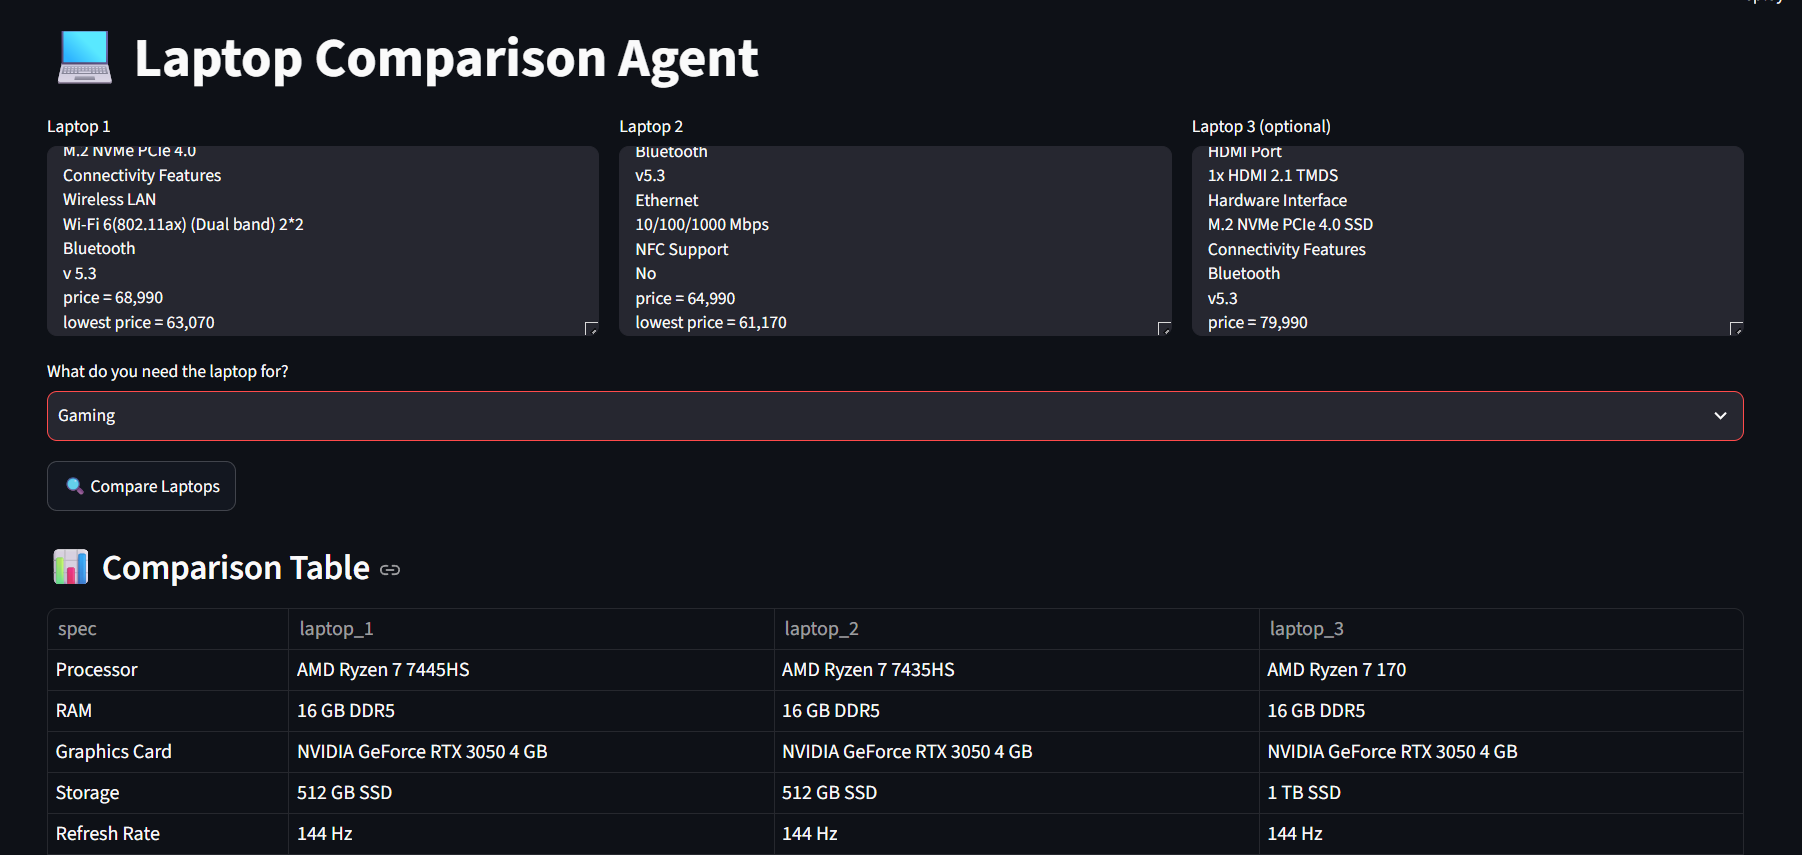
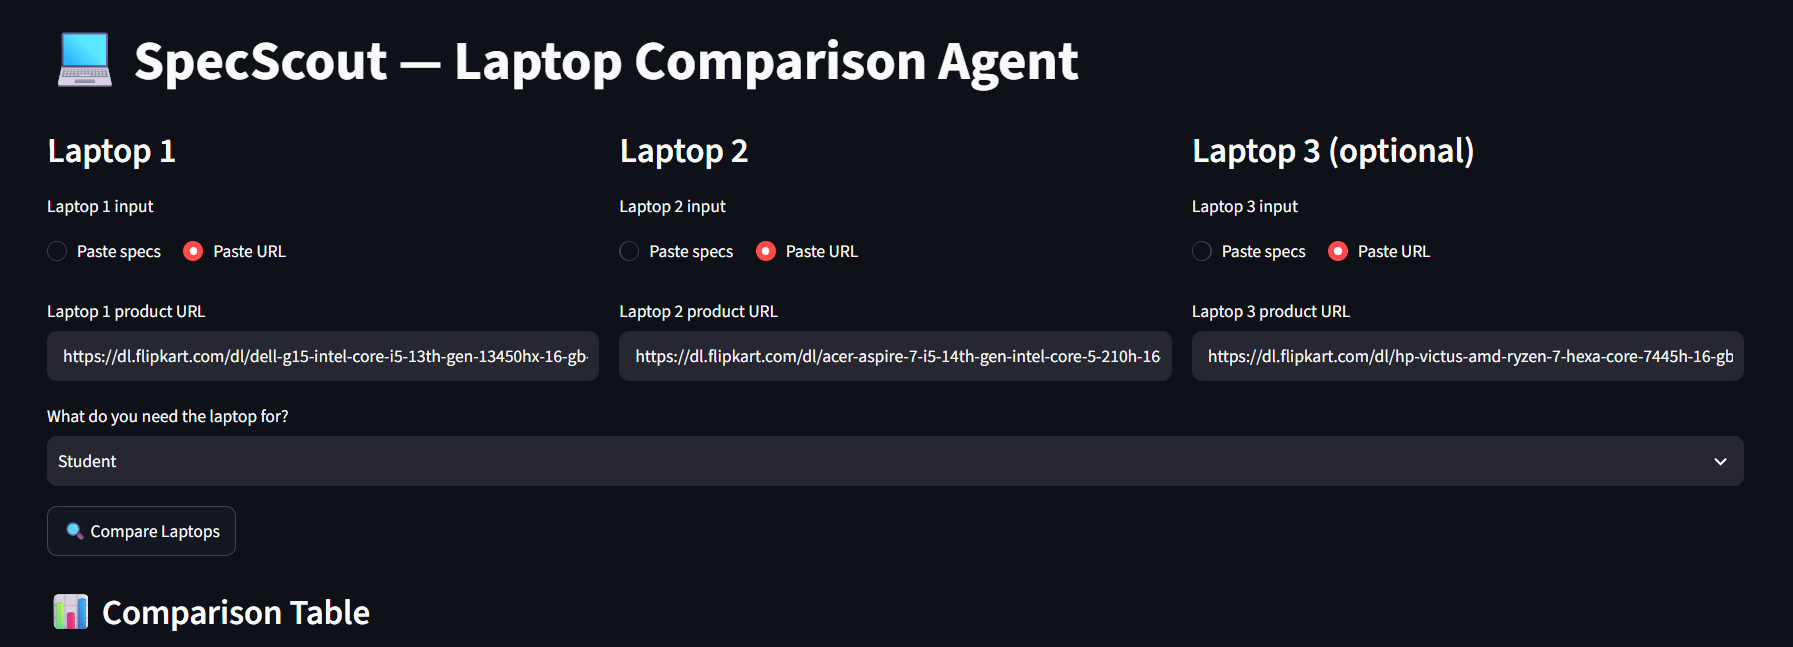
Phase 2: URL fetching + use-case-aware comparison

diff --git a/app.py b/app.py
@@ -1,13 +1,15 @@
 import streamlit as st
 from groq import Groq
+import re
 import os
 import json
+import requests
+from bs4 import BeautifulSoup
 from dotenv import load_dotenv
 
 load_dotenv()
-st.set_page_config(page_title="Laptop Compare AI", page_icon="💻", layout="wide")
-st.title("💻 Laptop Comparison Agent")
-
+st.set_page_config(page_title="SpecScout", page_icon="💻", layout="wide")
+st.title("💻 SpecScout — Laptop Comparison Agent")
 
 api_key_input = os.getenv("GROQ_API_KEY")
 
@@ -15,67 +17,151 @@ with st.sidebar:
     if api_key_input:
         st.success("API key loaded ✅")
     else:
-        st.error("No API key found. Add GEMINI_API_KEY to your .env file.")
+        st.error("No API key found. Add GROQ_API_KEY to your .env file.")
+
+
+def fetch_specs_from_url(url):
+    try:
+        headers = {"User-Agent": "Mozilla/5.0"}
+        resp = requests.get(url, headers=headers, timeout=10)
+        resp.raise_for_status()
+        soup = BeautifulSoup(resp.text, "html.parser")
+
+        title_tag = soup.find("title")
+        raw_title = title_tag.get_text(strip=True) if title_tag else ""
+
+        if " - (" in raw_title:
+            name = raw_title.split(" - (")[0].strip()
+        elif "Price in India" in raw_title:
+            name = raw_title.split("Price in India")[0].strip()
+        else:
+            name = raw_title.split("|")[0].strip()
+
+        name = name if name else "Unknown Laptop"
+        name = name[:60]  # safety cap in case a title has no clean break point
+
+        tables = soup.find_all("table")
+        specs = "\n".join(t.get_text(separator="\n", strip=True) for t in tables) if tables \
+                else soup.get_text(separator="\n", strip=True)[:3000]
+
+        return name, specs
+    except Exception as e:
+        st.warning(f"Couldn't fetch specs from that URL ({e}). Try pasting specs manually instead.")
+        return "Unknown Laptop", ""
+
+
+def laptop_input(label):
+    mode = st.radio(f"{label} input", ["Paste specs", "Paste URL"], horizontal=True, key=f"{label}_mode")
+    if mode == "Paste specs":
+        specs = st.text_area(f"{label} specs", height=180, key=f"{label}_text")
+        return label, specs
+    else:
+        url = st.text_input(f"{label} product URL", key=f"{label}_url")
+        if url:
+            return fetch_specs_from_url(url)
+        return label, ""
+
 
 col1, col2, col3 = st.columns(3)
 with col1:
-    laptop1 = st.text_area("Laptop 1", height=180)
+    st.subheader("Laptop 1")
+    name1, laptop1 = laptop_input("Laptop 1")
 with col2:
-    laptop2 = st.text_area("Laptop 2", height=180)
+    st.subheader("Laptop 2")
+    name2, laptop2 = laptop_input("Laptop 2")
 with col3:
-    laptop3 = st.text_area("Laptop 3 (optional)", height=180)
+    st.subheader("Laptop 3 (optional)")
+    name3, laptop3 = laptop_input("Laptop 3")
 
 use_case = st.selectbox(
     "What do you need the laptop for?",
     ["General use", "Coding", "Gaming", "Video editing", "Student", "Business"]
 )
 
-def build_prompt(laptops, use_case):
+
+USE_CASE_CRITERIA = {
+    "Video editing": "Prioritize CPU multi-core performance, RAM (32GB+ preferred over 16GB), GPU VRAM for render acceleration, and color-accurate displays. Refresh rate above 60Hz is NOT a meaningful factor for video editing.",
+    "Gaming": "Prioritize GPU model/VRAM, high refresh rate (144Hz+), and CPU single-core speed.",
+    "Coding": "Prioritize RAM (16GB+), fast SSD, and battery life. GPU and refresh rate are low priority.",
+    "Student": "Prioritize battery life, weight/portability, and price. High-end GPU is unnecessary.",
+    "Business": "Prioritize battery life, portability, keyboard quality, and security features. GPU is unnecessary.",
+    "General use": "Prioritize balanced performance and price. No single spec should dominate the decision."
+}
+
+
+def build_prompt(laptops, names, use_case):
     laptops_text = "\n\n".join(
-        f"Laptop {i+1}:\n{spec}" for i, spec in enumerate(laptops) if spec.strip()
+        f"{names[i]}:\n{spec}" for i, spec in enumerate(laptops) if spec.strip()
     )
+    active_names = [names[i] for i, spec in enumerate(laptops) if spec.strip()]
+    criteria = USE_CASE_CRITERIA.get(use_case, "")
+    example_row = ", ".join(f'"{n}": "..."' for n in active_names)
+
     return f"""You are a laptop buying expert. Compare these laptops for: {use_case}.
+
+Evaluation criteria for this use case: {criteria}
 
 {laptops_text}
 
-Return ONLY valid JSON, no markdown, in this structure:
+IMPORTANT — Field extraction rules:
+- For the "Graphics" row, always combine the GPU model AND its VRAM/memory capacity into one value, e.g. "NVIDIA GeForce RTX 3050 (4 GB)". These often appear as two separate raw fields like "Graphic Processor" and "Dedicated Graphic Memory Capacity" — merge them. If VRAM truly isn't present anywhere in the specs, write just the GPU name with no memory value, but check carefully before omitting it.
+- For "Battery Life", only write a value if the raw specs explicitly mention battery hours or Wh capacity. Otherwise write "Not listed by seller" instead of "Not specified".
+
+Return ONLY valid JSON, no markdown, in this structure. Use these EXACT laptop names as keys: {active_names}
+
 {{
   "comparison_table": [
-    {{"spec": "Processor", "laptop_1": "...", "laptop_2": "..."}},
-    {{"spec": "RAM", "laptop_1": "...", "laptop_2": "..."}}
+    {{"spec": "Processor", {example_row}}},
+    {{"spec": "RAM", {example_row}}},
+    {{"spec": "Storage", {example_row}}},
+    {{"spec": "Graphics", {example_row}}},
+    {{"spec": "Display", {example_row}}},
+    {{"spec": "Price", {example_row}}}
   ],
   "verdict": {{
     "best_overall": "...",
     "best_value": "...",
     "best_for_use_case": "..."
   }},
-  "summary": "2-3 sentence recommendation"
-}}"""
+  "summary": "2-3 sentences that must directly justify and agree with best_overall — do not recommend a different laptop than best_overall names. Base your reasoning on the evaluation criteria given above, not on which spec has the biggest number."
+}}
 
-def get_comparison(api_key, laptops, use_case):
+Use the exact laptop names given above as JSON keys in comparison_table, not generic labels like laptop_1.
+Before answering, double check that your summary names the SAME laptop as best_overall."""
+
+
+def extract_json(text):
+    text = text.strip().replace("```json", "").replace("```", "").strip()
+    match = re.search(r"\{.*\}", text, re.DOTALL)
+    return json.loads(match.group()) if match else json.loads(text)
+
+
+def get_comparison(api_key, laptops, names, use_case):
     client = Groq(api_key=api_key)
-    prompt = build_prompt(laptops, use_case)
+    prompt = build_prompt(laptops, names, use_case)
     response = client.chat.completions.create(
         model="llama-3.3-70b-versatile",
         messages=[{"role": "user", "content": prompt}],
     )
-    text = response.choices[0].message.content.strip()
-    text = text.replace("```json", "").replace("```", "").strip()
-    return json.loads(text)
+    return extract_json(response.choices[0].message.content)
+
 
 if st.button("🔍 Compare Laptops"):
     laptops = [laptop1, laptop2, laptop3]
+    names = [name1, name2, name3]
     filled = [l for l in laptops if l.strip()]
 
     if len(filled) < 2:
-        st.error("Paste at least 2 laptops.")
+        st.error("Add at least 2 laptops (paste specs or a URL).")
     else:
         with st.spinner("Comparing..."):
-            result = get_comparison(api_key_input, laptops, use_case)
+            result = get_comparison(api_key_input, laptops, names, use_case)
 
             st.subheader("📊 Comparison Table")
             st.table(result["comparison_table"])
 
             st.subheader("🏆 Verdict")
-            st.success(result["verdict"]["best_overall"])
-            st.success(result["summary"])
+            st.success(f"**Best Overall:** {result['verdict']['best_overall']}")
+            st.info(f"**Best Value:** {result['verdict']['best_value']}")
+            st.info(f"**Best for {use_case}:** {result['verdict']['best_for_use_case']}")
+            st.write(result["summary"])

diff --git a/README.md b/README.md
@@ -1,12 +1,14 @@
 # 🔍 SpecScout — AI Laptop Comparison Agent
 
-SpecScout is an AI-powered tool that compares laptops based on raw specification
-text. Paste in specs from any listing (Flipkart, Amazon, etc.), and it returns a
-structured comparison table plus an AI-generated verdict tailored to your use case.
+SpecScout is an AI agent that compares laptops for you. Paste raw specs **or**
+just paste a product URL — SpecScout fetches the page, extracts the specs,
+and returns a structured comparison table plus an AI-generated verdict
+tailored to your specific use case (Gaming, Coding, Student, Video Editing,
+Business, or General use).
 
 ## Demo
 
-**Input — paste specs for up to 3 laptops:**
+**Input — paste a product URL (or raw specs) for up to 3 laptops:**
 
 ![SpecScout input screenshot](screenshots/input.png)
 
@@ -14,28 +16,33 @@ structured comparison table plus an AI-generated verdict tailored to your use ca
 
 ![SpecScout comparison output](screenshots/output.png)
 
-Example run: three gaming laptops (Ryzen 7 / RTX 3050 class) compared for the
-"Gaming" use case. SpecScout correctly identified the laptop with the larger
-1TB SSD as best overall, while flagging a cheaper, similarly-specced option as
-the best value pick — reasoning drawn directly from the pasted specs, not
-hardcoded rules.
+Example run: three real Flipkart listings — Dell G15, Acer Aspire 7, and HP
+Victus — compared for the **"Student"** use case using nothing but their
+product URLs. SpecScout fetched all three pages, extracted clean product
+names and specs automatically, and picked the Acer Aspire 7 as best overall
+based on its lower weight (portability) and price — reasoning matched to
+what actually matters for a student, not just whichever laptop had the
+biggest numbers.
 
 ## What it does
 
-1. You paste raw spec text for 2–3 laptops (copy-pasted straight from a
-   product listing — no formatting required)
-2. You select your use case (Gaming, Coding, Student, Business, etc.)
-3. An LLM (Llama 3.3 70B via Groq) parses the specs and returns:
-   - A clean side-by-side comparison table (Processor, RAM, Storage, GPU,
-     Display, Battery, Price, etc.)
+1. **Add 2–3 laptops** — for each one, either:
+   - Paste a product URL (SpecScout fetches the page and extracts specs + name automatically), or
+   - Paste raw spec text manually (copy-pasted from any listing)
+2. **Select your use case** (Gaming, Coding, Student, Video Editing, Business, General use)
+3. **An LLM (Llama 3.3 70B via Groq)** parses the specs and returns:
+   - A clean side-by-side comparison table, using the laptops' real product
+     names as column headers (Processor, RAM, Storage, Graphics, Display,
+     Weight, Price, Battery Life)
    - A verdict: best overall, best value, and best for your specific use case
-   - A plain-language summary explaining the recommendation
+   - A plain-language summary that stays consistent with the verdict
 
 ## Tech stack
 
 - **Python**
 - **Streamlit** — UI
 - **Groq API (Llama 3.3 70B)** — LLM reasoning and structured JSON output
+- **Requests + BeautifulSoup** — fetching and parsing product pages
 - **python-dotenv** — API key management
 
 ## Setup
@@ -64,31 +71,55 @@ hardcoded rules.
 ## How it works (architecture)
 
 ```
-User pastes specs (2-3 laptops) + selects use case
+User provides 2-3 laptops (URL or pasted specs) + selects use case
               │
               ▼
-   Prompt builder constructs a structured prompt
+   If URL: fetch page → extract product name (from <title>)
+           → extract specs (from <table> elements)
+              │
+              ▼
+   Prompt builder injects specs + real laptop names +
+   use-case-specific evaluation criteria (e.g. "for Gaming,
+   prioritize GPU/refresh rate"; "for Coding, prioritize RAM/battery")
               │
               ▼
       Groq API (Llama 3.3 70B) generates JSON:
-      comparison table + verdict + summary
+      comparison table (keyed by real laptop names) + verdict + summary
               │
               ▼
-   Streamlit renders table, verdict, and summary
+   JSON is extracted robustly (regex fallback handles stray
+   text around the JSON block) and parsed
+              │
+              ▼
+   Streamlit renders table, verdict (best overall / best value /
+   best for use case), and summary
 ```
+
+This is a genuinely agentic pipeline — SpecScout fetches live external data
+and reasons over it, rather than just processing text the user hands it
+directly.
 
 ## Project status
 
 ✅ **Phase 1 — Complete**
 - Manual spec paste → AI comparison pipeline working end-to-end
-- Tested with 3 real laptops from Flipkart listings
 - Structured JSON output rendered as table + verdict
 
-🔜 **Phase 2 — Planned**
-- Paste a product URL instead of manually copying specs; the app fetches
-  and extracts specs automatically
-- Moves the project from pure Gen AI (single input → output) toward an
-  agentic pipeline (fetch → extract → reason)
+✅ **Phase 2 — Complete**
+- Paste a product URL instead of manually copying specs — the app fetches
+  and extracts specs (and the product name) automatically
+- Use-case-aware evaluation criteria baked into the prompt, so the AI
+  reasons about what actually matters for Gaming vs. Coding vs. Student vs.
+  Video Editing, instead of just picking the laptop with the biggest number
+  on any one spec
+- Real laptop names used as table/JSON keys instead of generic
+  `laptop_1` / `laptop_2` labels
+- Verdict and summary consistency check added to the prompt, so the
+  recommendation doesn't contradict itself
+- Robust JSON extraction with regex fallback, so a malformed model response
+  doesn't crash the app
+- Tested end-to-end against multiple real Flipkart listings across several
+  use cases (Gaming, Coding, Student, Video Editing)
 
 🔜 **Phase 3 — Planned**
 - Browser extension with a "Compare with AI" button on product pages
@@ -96,8 +127,17 @@ User pastes specs (2-3 laptops) + selects use case
 🔜 **Phase 4 — Planned**
 - Generalize beyond laptops to other electronics categories
 
+## Known limitations
+
+- Spec extraction quality depends on how a listing's page is structured;
+  some sellers omit fields entirely (e.g. battery life), which SpecScout
+  reports honestly as "Not listed by seller" rather than guessing
+- Product page scraping is inherently fragile — if a site changes its HTML
+  structure, extraction may need adjustment
+- This project does not violate any site's ToS by scraping in bulk — a user
+  manually supplies one product URL at a time, the same as opening it in a
+  browser themselves
+
 ## Notes
 
-- This project does not scrape any website — specs are manually pasted by
-  the user, so there are no ToS concerns with sites like Flipkart.
 - `.env` is excluded via `.gitignore`; never commit API keys.